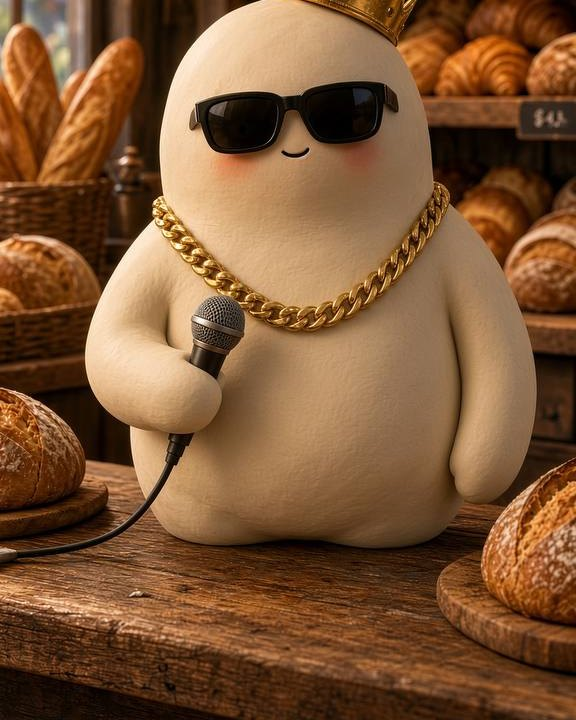
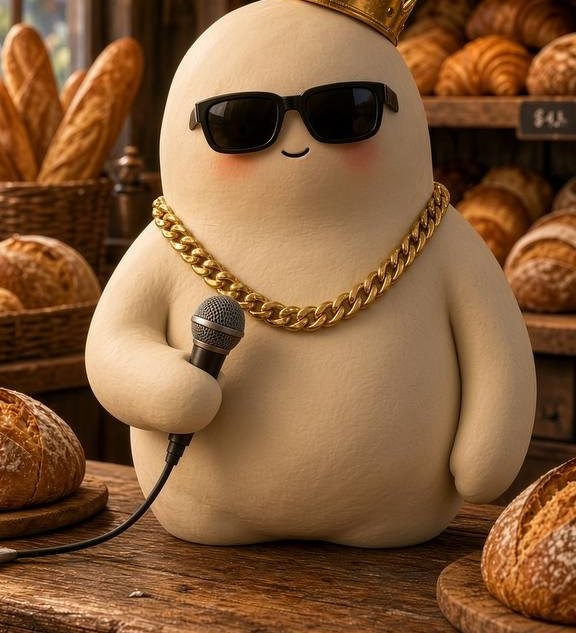
Breddie Smalls portrait: crop counter dead space, crown + headroom kept
Bottom 12% (counter dead space) cropped from source; CSS aspect-ratio
matched to new 576x633 so object-fit cover can't shave the crown.
Old source kept as .bak-20261029 (gitignored).

diff --git a/src/index.css b/src/index.css
@@ -171,7 +171,7 @@ p.sub { color: var(--stone); max-width: 58ch; }
 .about-grid { display: grid; grid-template-columns: 0.85fr 1.15fr; gap: 44px; align-items: start; margin-top: 24px; }
 .about-grid--flip { grid-template-columns: 1.15fr 0.85fr; }
 .about-grid img { border-radius: 4px; width: 100%; height: 460px; object-fit: cover; }
-.about-grid img.about-portrait { height: auto; aspect-ratio: 4 / 5; }
+.about-grid img.about-portrait { height: auto; aspect-ratio: 576 / 633; }
 .about-grid p { margin-bottom: 16px; color: var(--stone); }
 .pullquote {
   font-family: 'Fraunces', serif; font-size: 26px; font-weight: 300; font-style: italic; line-height: 1.35;
